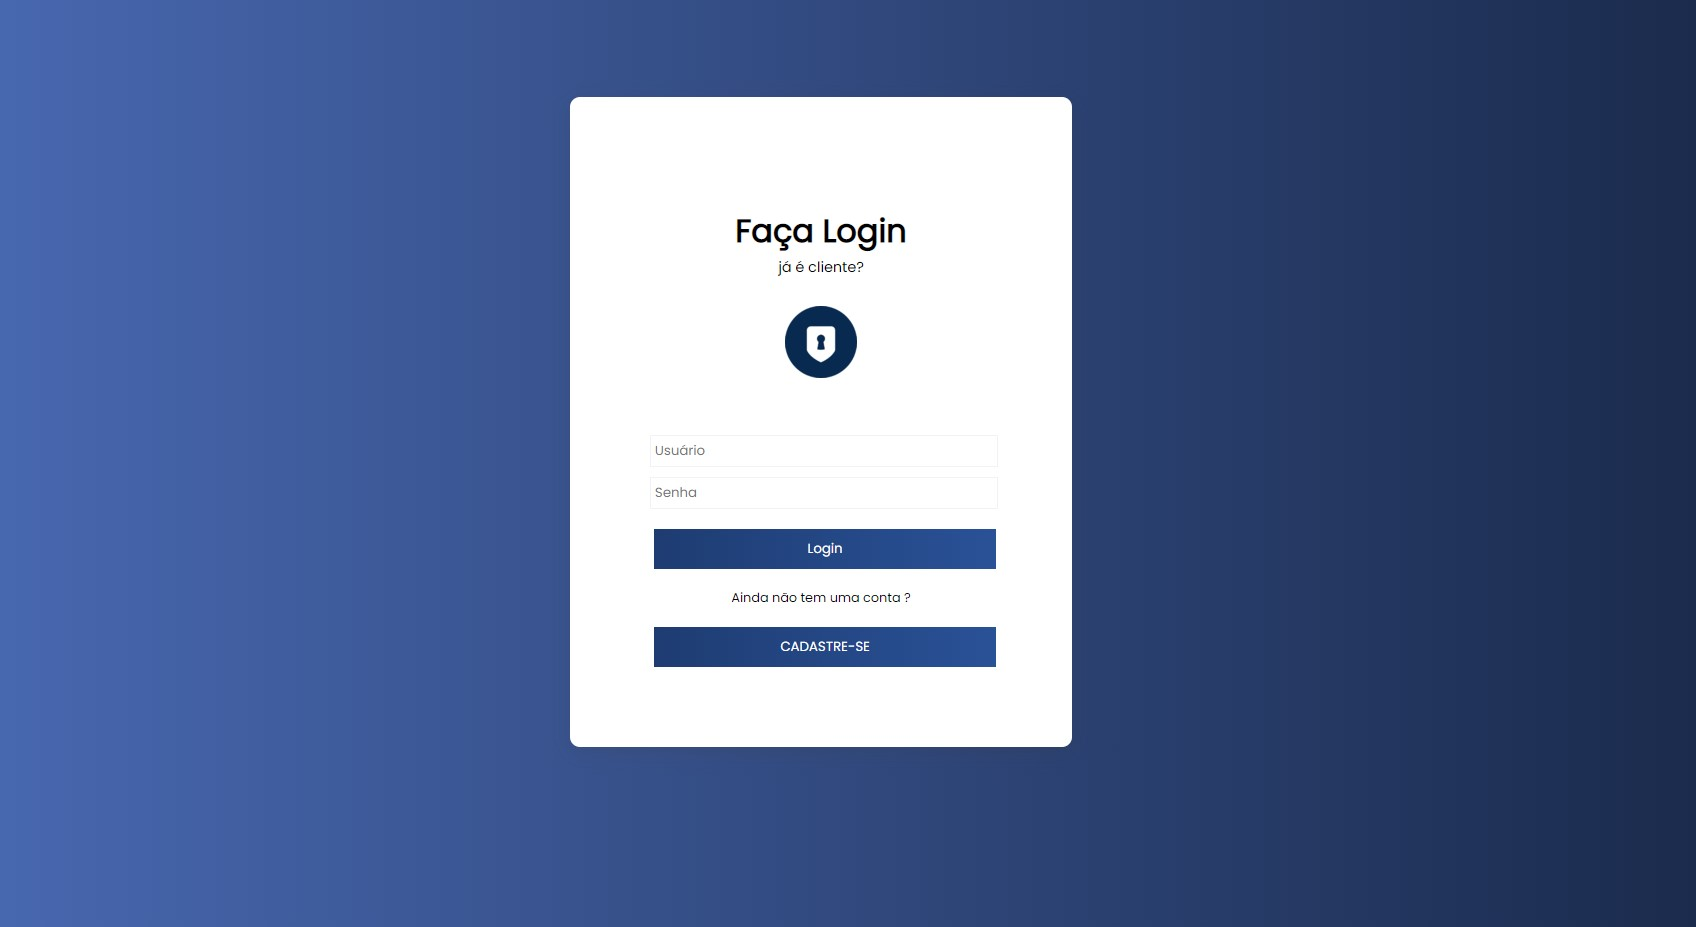
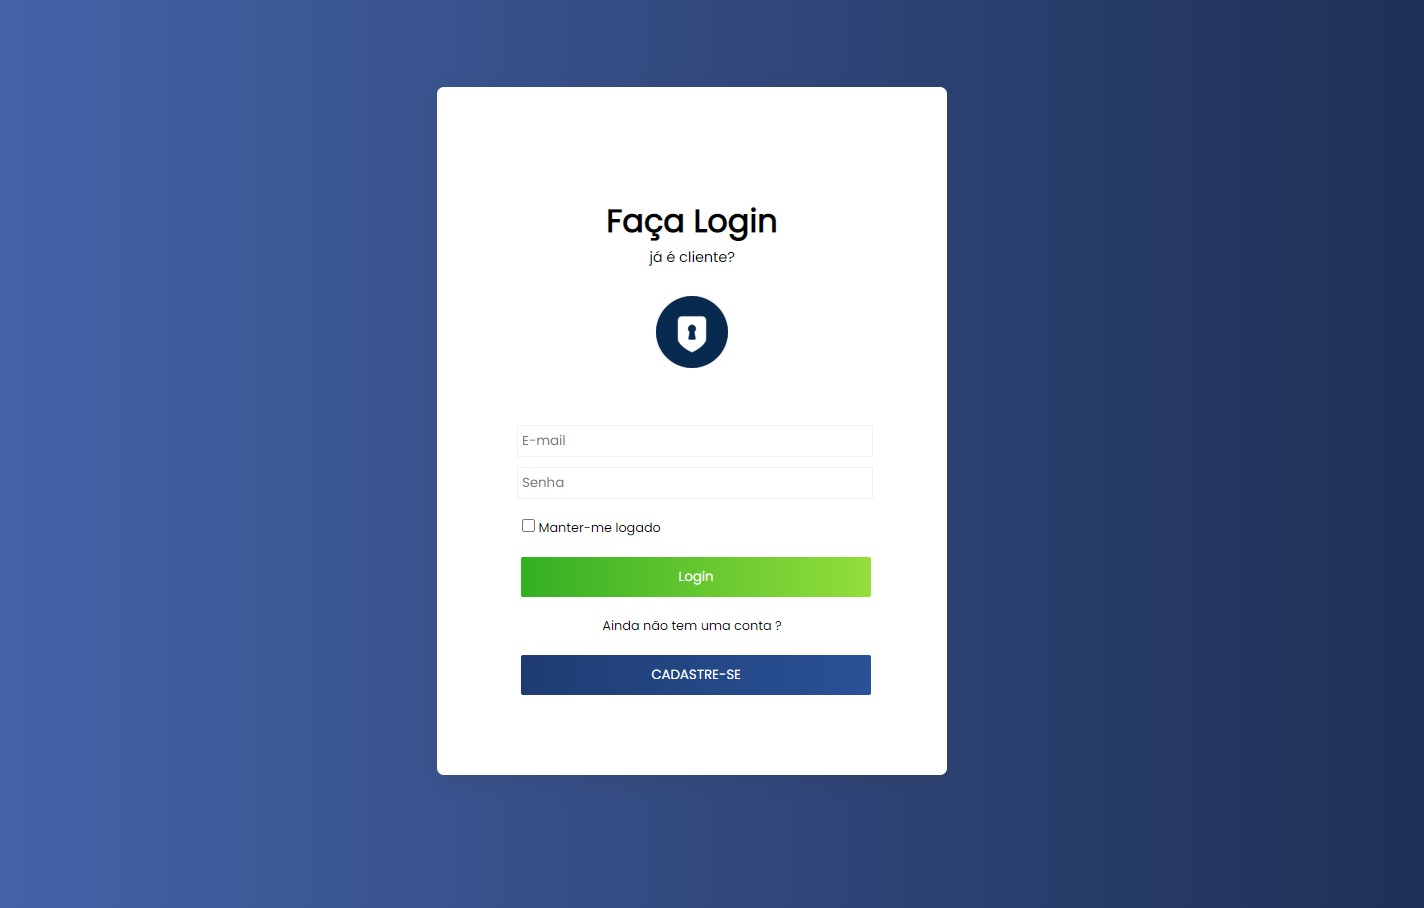
painel-login

Changed region(s): [[0.309, 0.0925, 0.6798, 0.8634], [0.4326, 0.2159, 0.5562, 0.4009], [0.3708, 0.4626, 0.4326, 0.4934]]

diff --git a/estilos/style.css b/estilos/style.css
@@ -4,11 +4,9 @@
     margin: 0;
     padding: 0;
     font-family: 'Poppins',-apple-system, BlinkMacSystemFont, 'Segoe UI', Roboto, Oxygen, Ubuntu, Cantarell, 'Open Sans', 'Helvetica Neue', sans-serif ;
-
 }
 body{
     background: linear-gradient(90deg, #4b6cb7 0%, #182848 100%);
-   
 }
 a{
     text-decoration: none;
@@ -22,8 +20,8 @@ a{
 .main-login{
     background-color: #ffffff;
     padding: 80px;
-    
-    border-radius: 5px;
+    width: 350px;
+    border-radius: 7px;
     box-shadow: 0 5px 20px -1px #38333830;
 }
 h1 {
@@ -42,9 +40,8 @@ h2{
     padding-top: 20px;
     padding-bottom: 40px;
     text-align: center;
-
 }
-input:not([type="checkbox"]){
+input:not([type="checkbox"]){ /* cor do input e não usado no check */
     display: inline-block;
     margin-top: 10px;
     padding: 5px 0px;
@@ -52,13 +49,12 @@ input:not([type="checkbox"]){
     outline: none;
     width: 100%;
     border: 1px solid #18284810;
+    border-radius: 1px;
     
 }
 input:focus{
     background: #2a529810;
 }
-
-
 .logado {
     margin-left: 5px;
     text-align: left;
@@ -81,7 +77,7 @@ input:focus{
     transition: 0.5s ease;
 }
 .btn-login:hover {
-    background-position: right center; /* change the direction of the change here */
+    background-position: right center; /* colocar efeito da direçao do botão */
     color: #fff;
     text-decoration: none;
   }
@@ -101,7 +97,7 @@ input:focus{
     transition: 0.5s ease;
 }
 .btn-cadastro:hover {
-    background-position: right center; /* change the direction of the change here */
+    background-position: right center; /* colocar efeito da direçao do botão */
     color: #fff;
     text-decoration: none;
   }
@@ -111,7 +107,7 @@ input:focus{
     margin-top: 20px;
     font-size: 0.8rem;
 }
-/* Tela de cadastro */
+
 
 
 

diff --git a/estilos/cadastro.css b/estilos/cadastro.css
@@ -1,5 +1,5 @@
 @import url('https://fonts.googleapis.com/css2?family=Lobster&family=Poppins&family=Roboto&family=Teko&display=swap');
-
+/* Tela de cadastro */
 *{
     margin: 0;
     padding: 0;
@@ -17,14 +17,15 @@ a{
     display: flex;
     justify-content: center;
     margin-top: 100px;
+    margin-bottom: 20px;
     width: 100vw;
-    
+    align-items: center;
 }
 .main-login{
     background-color: #ffffff;
-    width: 400px;
+    width: 350px;
     padding: 80px;
-    border-radius: 10px;
+    border-radius: 7px;
     box-shadow: 0 5px 20px -1px #38333830;
 }
 h1 {
@@ -46,7 +47,7 @@ h2{
 
 }
 input{
-    color: #8e9097;
+    color: #e6e7eb;
     display: flex;
     margin-top: 10px;
     padding: 5px 0px;
@@ -56,7 +57,6 @@ input{
     outline-color:#e1e1ec;
     border-radius: 2px;
     border: 1px solid #34528d10;
-    font-family: 'Poppins', -apple-system, BlinkMacSystemFont, 'Segoe UI', Roboto, Oxygen, Ubuntu, Cantarell, 'Open Sans', 'Helvetica Neue', sans-serif ;
     
 }
 input:focus{
@@ -80,7 +80,7 @@ input:focus{
     transition: 0.5s ease;
 }
 .btn-green:hover {
-    background-position: right center; /* change the direction of the change here */
+    background-position: right center; /* colocar efeito da direçao do botão */
     color: #fff;
     text-decoration: none;
   }
@@ -99,8 +99,8 @@ input:focus{
     text-align: center;
     transition: 0.5s ease;
 }
-.btn-blue :hover {
-    background-position: right center; /* change the direction of the change here */
+.btn-blue:hover {
+    background-position: right center; /* colocar efeito da direçao do botão */
     color: #fff;
     text-decoration: none;
 }
@@ -110,7 +110,7 @@ p{
     font-size: 0.8rem;
 }
 
-/* Tela de cadastro */
+
 
 
 

diff --git a/readme.md b/readme.md
@@ -59,8 +59,10 @@ futuramente conforme o aprendizado implementar funções ao botão enviar e ao c
 
 ## Link do Projeto:
 
-https://wluqui.dev/projetos/painel/index.html
 
+> <li> <a href="https://wluqui.dev/projetos/painel/index.html" target="_blank" > Projeto <a>
+
+<br>
 
 ![Screenshot painel](https://user-images.githubusercontent.com/88260564/147013148-3e04c122-c806-41ae-ab76-8066cc922784.jpg)
 
